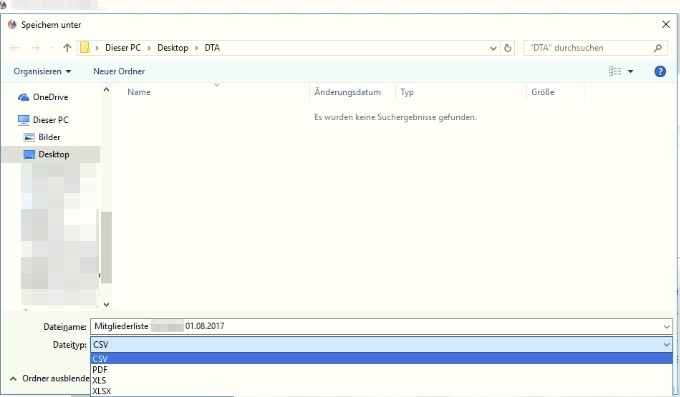
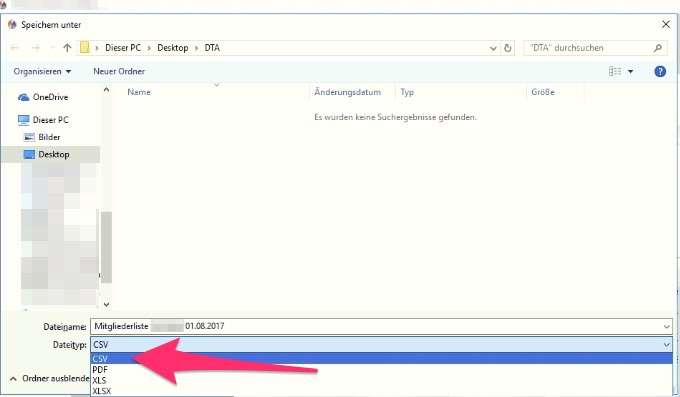
fix(easysolution): Add error for format selection

Changed region(s): [[0.1853, 0.8463, 0.4632, 0.9673]]

diff --git a/easysolution/schritt-fuer-schritt-anleitung.md b/easysolution/schritt-fuer-schritt-anleitung.md
@@ -17,7 +17,7 @@ im Untermenü auf den Punkt `Personenlisten` aus
 
 Oben bei `Personenliste` wählen Sie bitte __sapaso__ aus. (Sollte es noch keine sapaso Personenliste geben, erstellen Sie einfach eine Personenliste ohne Filter oder wenden Sie sich direkt an uns).
 
-Exportieren Sie diese Liste über den Exportieren-Knopf ![easysolution export button](easysolution/_media/mitgliederliste/1-export-icon.jpg "Exportieren-Knopf") als CSV-Datei.
+Exportieren Sie diese Mitgliederliste über den Exportieren-Knopf ![easysolution export button](easysolution/_media/mitgliederliste/1-export-icon.jpg "Exportieren-Knopf") im CSV Format.
 
 > Tipp speichern Sie die Datei unter dem Namen `Mitgliederliste Studioname Datum.csv`, z.B. `Mitgliederliste fitfitBonn 01.08.2017.csv`
 
